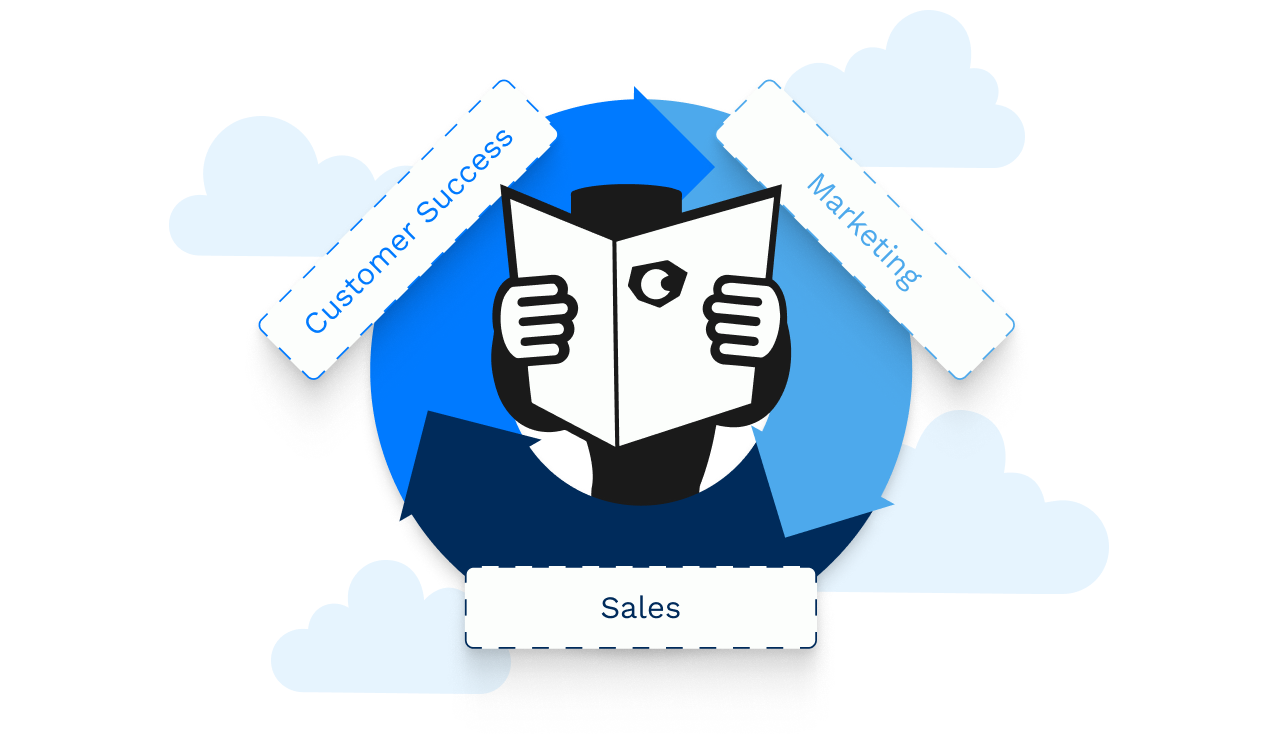
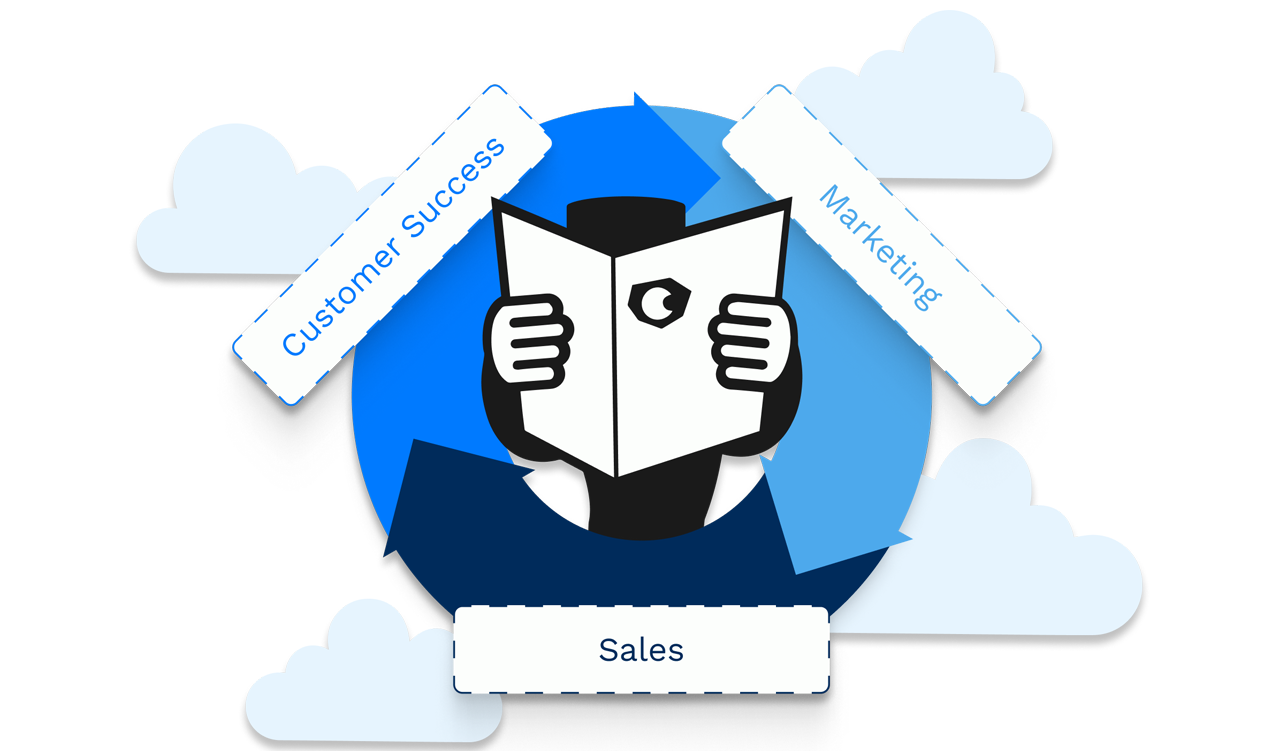
prev

diff --git a/css/covert-style-v4.css b/css/covert-style-v4.css
@@ -488,10 +488,11 @@ p.lead {
   width: 1200px;
   margin: 0 auto;
   padding-top: 124px;
+  padding-bottom: 95px;
 }
 
 #solution-details .stg-row {
-  margin-bottom: 70px;
+  margin-bottom: 160px;
 }
 
 #solution-details .stg-row > div {
@@ -526,7 +527,7 @@ p.lead {
 #solution-details p.covert-large-text {
   font-family: "Work Sans";
   font-style: normal;
-  font-weight: 300;
+  font-weight: 400;
   font-size: 18px;
   line-height: 130%;
   color: #1a1a1a;
@@ -566,7 +567,11 @@ p.lead {
   font-size: 16px;
   color: #1a1a1a;
 }
-
+.covert-parallax-media:not([class*="covert-grid"]),
+.covert-parallax-media .st-lazy-wrapper,
+.covert-parallax-image {
+  overflow: visible;
+}
 #solution-details .stg-row .img {
   margin: 0;
   width: calc(50% - 8px);
@@ -576,6 +581,35 @@ p.lead {
   width: 100%;
   height: auto;
   margin: 30px 0;
+}
+
+#solution-details .stg-row:nth-child(1) .text {
+  max-width: 480px;
+  width: 100%;
+}
+
+#solution-details .stg-row:nth-child(1) .covert-parallax-media img {
+  max-width: 640px;
+  width: 100%;
+  margin: -20px 0 0 30px;
+}
+#solution-details .stg-row:nth-child(2) {
+  margin-bottom: 170px;
+}
+
+#solution-details .stg-row:nth-child(2) .covert-parallax-media img {
+  margin: -50px 0 0 -80px;
+}
+
+#solution-details .stg-row:nth-child(3) .text {
+  max-width: 513px;
+  width: 100%;
+}
+
+#solution-details .stg-row:nth-child(3) .covert-parallax-media img {
+  max-width: 635px;
+  width: 105%;
+  margin: -60px 0 0 -50px;
 }
 
 #pricing {
